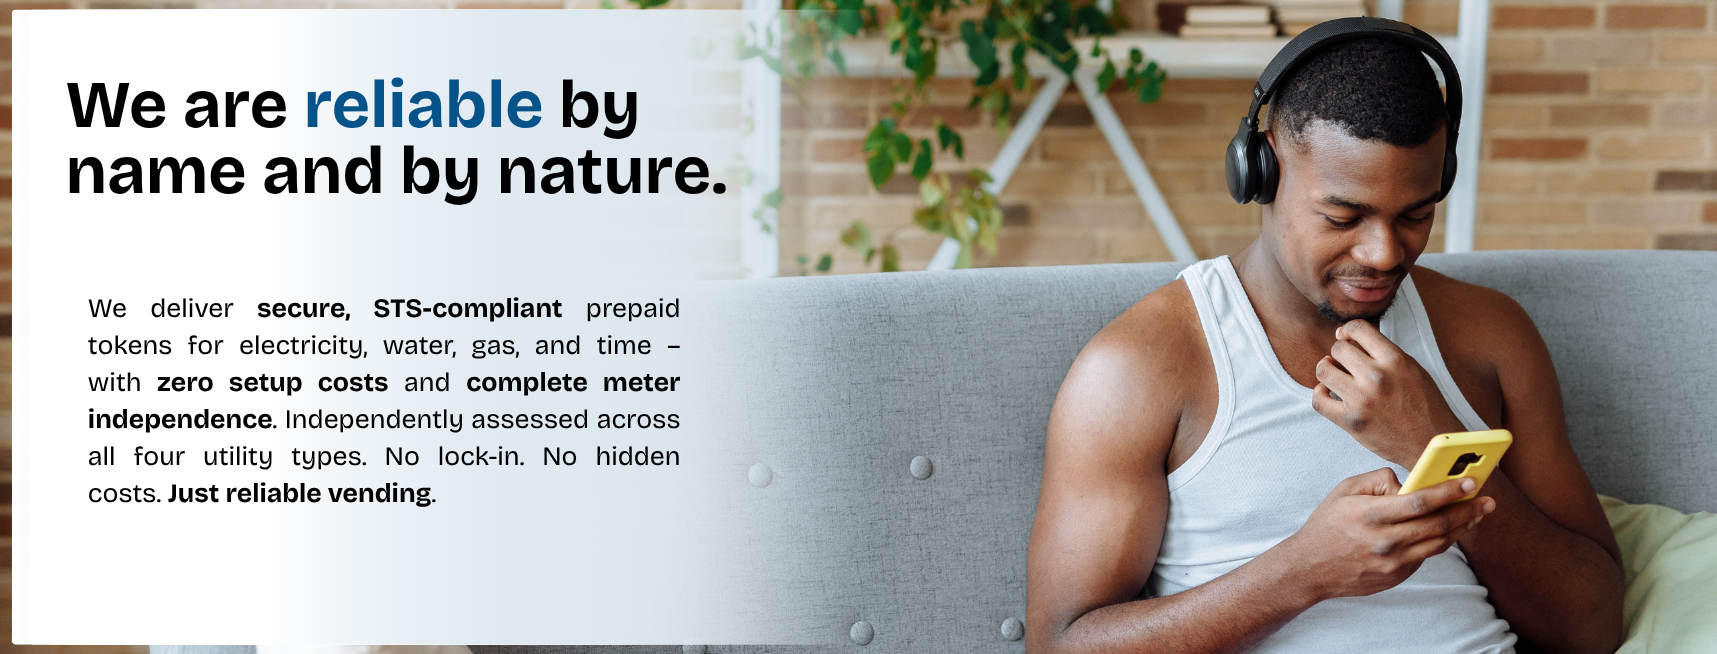
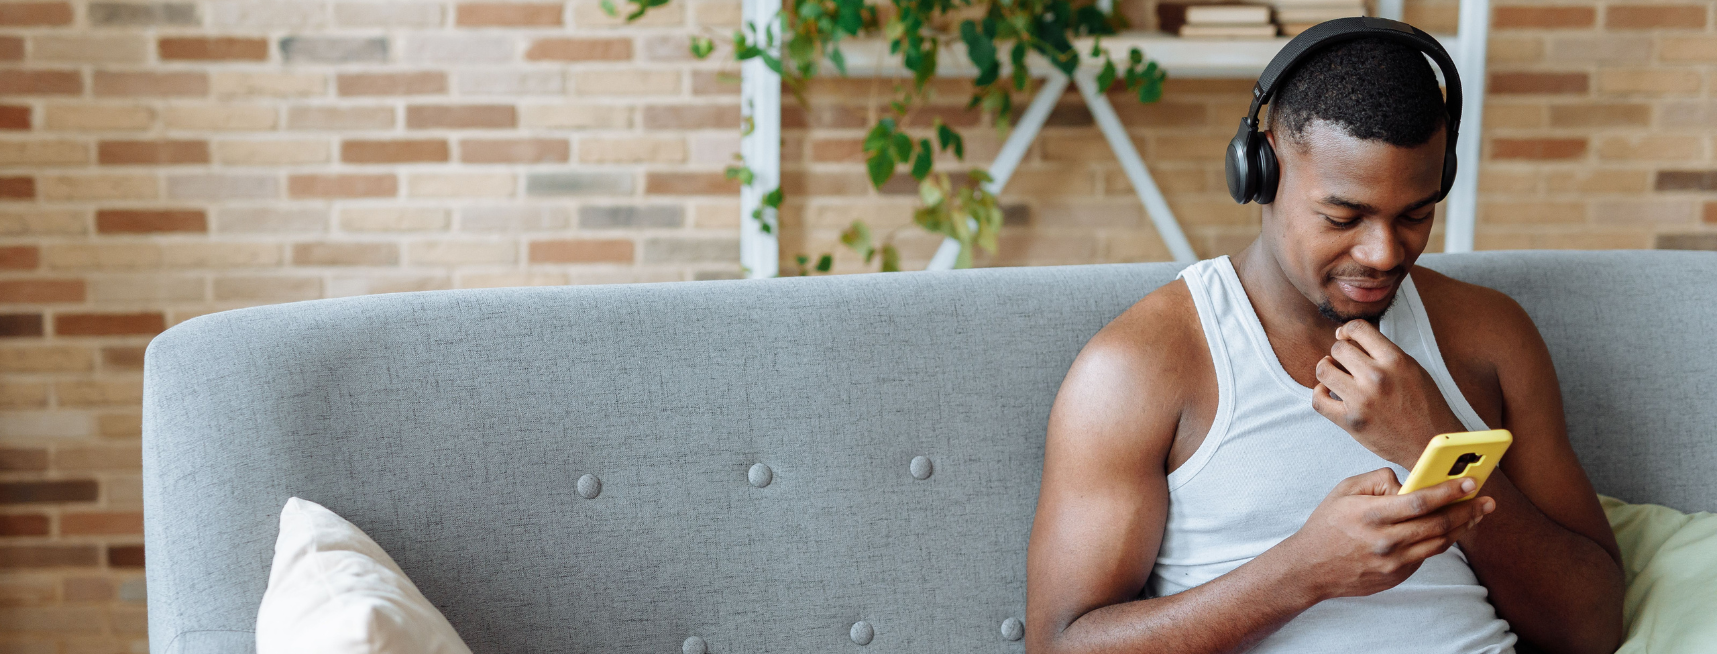
Rebuild hero as cover-crop with HTML text overlay, tighten mobile nav
- Replace hero banners with text-free photography; headline/copy now
  rendered as real HTML over a white-fade scrim instead of baked into
  the image pixels (images marked alt="" as decorative, copy is now
  screen-reader accessible directly)
- Hero container switches from a locked aspect-ratio + object-fit:
  contain to a fluid clamp() height + object-fit: cover, so the photo
  fills the box edge-to-edge at every screen size instead of
  letterboxing
- Fluid clamp() type scale for the hero heading/body, with the body
  paragraph hidden below 480px so the shorter mobile hero stays clean
- Explore Solutions button shrinks its padding/font at smaller
  breakpoints instead of stretching full-width
- Mobile nav dropdown is now a fixed-width (min(220px, 70vw)) card
  anchored under the hamburger button, instead of a full-viewport-wide
  strip, with tighter link spacing and less whitespace

diff --git a/assets/css/style.css b/assets/css/style.css
@@ -296,28 +296,34 @@ p { margin: 0 0 1em; }
     .nav-toggle { display: flex; }
     .main-nav {
         position: absolute;
-        top: 100%;
-        left: 0;
-        right: 0;
+        top: calc(100% + 8px);
+        left: auto;
+        right: 24px;
+        width: min(220px, 70vw);
         background: var(--color-white);
         flex-direction: column;
         align-items: stretch;
         gap: 0;
         max-height: 0;
         overflow: hidden;
+        border-radius: var(--radius-md);
         transition: max-height 0.25s ease;
-        box-shadow: 0 8px 20px rgba(35, 31, 32, 0.08);
+        box-shadow: var(--shadow-md);
     }
-    .main-nav.is-open { max-height: 480px; }
+    .main-nav.is-open { max-height: 420px; }
     .main-nav ul {
         flex-direction: column;
-        gap: 0;
-        padding: 8px 24px;
+        gap: 2px;
+        padding: 10px;
     }
-    .main-nav ul li a { display: block; padding: 12px 16px; }
+    .main-nav ul li a {
+        display: block;
+        padding: 9px 12px;
+        border-radius: var(--radius-md);
+    }
     .main-nav ul li:not(:last-child)::after { content: none; }
     .main-nav .btn-portal {
-        margin: 12px 24px 20px;
+        margin: 4px 10px 10px;
         text-align: center;
     }
 }
@@ -343,11 +349,14 @@ p { margin: 0 0 1em; }
     flex-wrap: wrap;
 }
 
-/* Hero carousel */
+/* Hero carousel — full-bleed cover crop; the photo fills the box edge to
+   edge at every screen size (no letterbox gaps), while the headline/copy
+   is real HTML on a white-fade scrim, independent of how much of the
+   photo a given screen size crops away. */
 .hero-carousel {
     position: relative;
     width: 100%;
-    aspect-ratio: 1717 / 654;
+    height: clamp(340px, 46vw, 620px);
     overflow: hidden;
     background: var(--color-ink);
 }
@@ -367,10 +376,60 @@ p { margin: 0 0 1em; }
     display: block;
     width: 100%;
     height: 100%;
-    object-fit: contain;
+    object-fit: cover;
+    object-position: 70% center;
 }
+.hero-slide-scrim {
+    position: absolute;
+    inset: 0;
+    background: linear-gradient(90deg,
+        rgba(255,255,255,0.95) 0%,
+        rgba(255,255,255,0.88) 32%,
+        rgba(255,255,255,0.5) 54%,
+        rgba(255,255,255,0) 72%);
+    pointer-events: none;
+}
+.hero-slide-content {
+    position: absolute;
+    inset: 0;
+    display: flex;
+    align-items: center;
+    padding-bottom: 92px;
+    z-index: 1;
+}
+.hero-slide-text { max-width: 560px; }
+.hero-slide-text h2 {
+    font-size: clamp(1.35rem, 1.05rem + 2.4vw, 2.75rem);
+    font-weight: 800;
+    color: var(--color-ink);
+    line-height: 1.15;
+    margin-bottom: 0.45em;
+}
+.hero-slide-highlight { color: var(--color-bright-blue); }
+.hero-slide-text p {
+    font-size: clamp(0.85rem, 0.78rem + 0.5vw, 1.05rem);
+    color: var(--color-ink);
+    line-height: 1.55;
+    margin-bottom: 0;
+}
+.hero-slide-text p strong { font-weight: 700; }
 @media (prefers-reduced-motion: reduce) {
     .hero-slide { transition: none; }
+}
+@media (max-width: 640px) {
+    .hero-slide-text { max-width: 100%; }
+    .hero-slide-scrim {
+        background: linear-gradient(90deg,
+            rgba(255,255,255,0.96) 0%,
+            rgba(255,255,255,0.92) 55%,
+            rgba(255,255,255,0.35) 80%,
+            rgba(255,255,255,0) 100%);
+    }
+}
+@media (max-width: 480px) {
+    .hero-slide-content { padding-bottom: 78px; }
+    .hero-slide-text p { display: none; }
+    .hero-carousel-footer { bottom: var(--space-4); }
 }
 .hero-carousel-footer {
     position: absolute;
@@ -1942,18 +2001,30 @@ p { margin: 0 0 1em; }
    1280 — large desktop
 */
 @media (max-width: 480px) {
-    .hero-actions,
     .cta-band-actions {
         flex-direction: column;
         align-items: stretch;
     }
-    .hero-actions .btn,
     .cta-band-actions .btn {
         width: 100%;
         text-align: center;
     }
     .card {
         padding: 20px;
+    }
+}
+/* Hero CTA scales down with the shorter mobile carousel instead of
+   stretching full-width — a small preview shouldn't carry a full-size
+   button */
+@media (max-width: 640px) {
+    .hero-actions .btn {
+        padding: 10px 20px;
+        font-size: var(--fs-xs);
+    }
+}
+@media (max-width: 480px) {
+    .hero-actions .btn {
+        padding: 8px 16px;
     }
 }
 

diff --git a/index.php b/index.php
@@ -5,23 +5,49 @@ require __DIR__ . '/includes/header.php';
 ?>
 
 <!--
-    Hero carousel: real <img> elements, not CSS backgrounds. The wrapper's
-    aspect-ratio is locked to the primary banner's actual pixel dimensions
-    (1717x654) so the box is the same shape at every screen size, and each
-    image uses object-fit:contain so it's always shown whole, never cropped.
-    Text is baked directly into the banner images — swap the src/alt below
-    when new banners are ready (update the aspect-ratio too if a new primary
-    banner's own pixel dimensions differ from 1717x654).
+    Hero carousel: real <img> elements, not CSS backgrounds. The banners are
+    text-free photography — object-fit:cover fills the box edge-to-edge
+    (cropping as needed for a clean full-bleed look at every screen size)
+    while the headline/copy is real HTML laid over a white-fade scrim, so
+    the text is never cropped or shrunk along with the photo, and it's
+    readable to screen readers directly (images are decorative, alt="").
 -->
 <section class="hero-carousel" data-carousel aria-roledescription="carousel" aria-label="Highlights">
     <div class="hero-slide is-active" data-slide>
-        <img src="/assets/images/hero-banner-1.png" alt="We are reliable by name and by nature. We deliver secure, STS-compliant prepaid tokens for electricity, water, gas and time — with zero setup costs and complete meter independence. Independently assessed across all four utility types. No lock-in. No hidden costs. Just reliable vending.">
+        <img src="/assets/images/hero-banner-1.png" alt="">
+        <div class="hero-slide-scrim"></div>
+        <div class="hero-slide-content">
+            <div class="container">
+                <div class="hero-slide-text">
+                    <h2>We are <span class="hero-slide-highlight">reliable</span> by name and by nature.</h2>
+                    <p>We deliver <strong>secure, STS-compliant</strong> prepaid tokens for electricity, water, gas and time — with <strong>zero setup costs</strong> and <strong>complete meter independence</strong>. Independently assessed across all four utility types. No lock-in. No hidden costs. <strong>Just reliable vending.</strong></p>
+                </div>
+            </div>
+        </div>
     </div>
     <div class="hero-slide" data-slide>
-        <img src="/assets/images/hero-banner-2.png" alt="STS Compliant. Globally trusted. Built on the global Standard Transfer Specification, our platform delivers secure, interoperable tokens that meet the highest industry standards. Certified. Future-proof. Trusted worldwide.">
+        <img src="/assets/images/hero-banner-2.png" alt="">
+        <div class="hero-slide-scrim"></div>
+        <div class="hero-slide-content">
+            <div class="container">
+                <div class="hero-slide-text">
+                    <h2>STS <span class="hero-slide-highlight">Compliant</span>. Globally trusted.</h2>
+                    <p>Built on the global <strong>Standard Transfer Specification</strong>, our platform delivers <strong>secure, interoperable tokens</strong> that meet the highest industry standards. <strong>Certified. Future-proof. Trusted worldwide.</strong></p>
+                </div>
+            </div>
+        </div>
     </div>
     <div class="hero-slide" data-slide>
-        <img src="/assets/images/hero-banner-3.png" alt="Together, we vend smarter. We partner with utilities and service providers, handling the technology so you can focus on your customers. From secure token generation to seamless delivery, we make prepaid vending simple, scalable and future-ready.">
+        <img src="/assets/images/hero-banner-3.png" alt="">
+        <div class="hero-slide-scrim"></div>
+        <div class="hero-slide-content">
+            <div class="container">
+                <div class="hero-slide-text">
+                    <h2>Together, we <span class="hero-slide-highlight">vend</span> smarter.</h2>
+                    <p>We partner with <strong>utilities</strong> and <strong>service providers</strong>, handling the technology so you can focus on your customers. From <strong>secure token generation</strong> to <strong>seamless delivery</strong>, we make prepaid vending simple, scalable and future-ready.</p>
+                </div>
+            </div>
+        </div>
     </div>
 
     <button type="button" class="hero-nav hero-nav-prev" data-carousel-prev aria-label="Previous slide">
